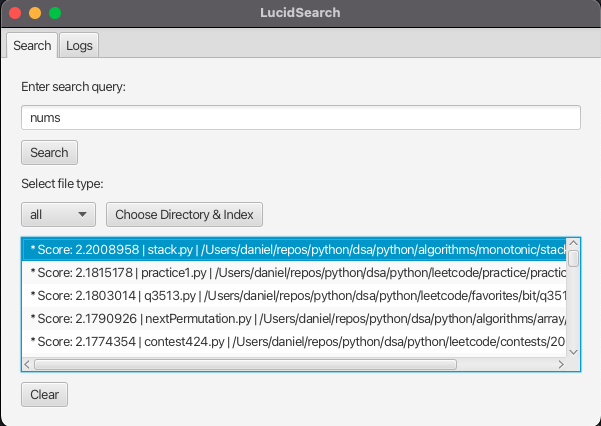
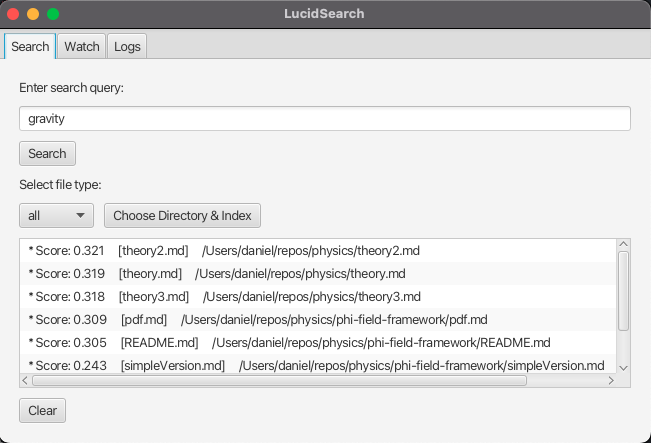
docs: update readme doc

diff --git a/src/main/java/com/lucene/ui/LucidApp.java b/src/main/java/com/lucene/ui/LucidApp.java
@@ -42,7 +42,7 @@ public class LucidApp extends Application {
         logsTab.setClosable(false);
         Tab watchTab = new Tab("Watch", watchView);
         watchTab.setClosable(false);
-        tabPane.getTabs().addAll(searchTab, logsTab, watchTab);
+        tabPane.getTabs().addAll(searchTab, watchTab, logsTab);
 
         primaryStage.setScene(new Scene(tabPane, 600, 400));
         primaryStage.show();

diff --git a/README.md b/README.md
@@ -5,14 +5,19 @@
 Personal file search engine powered by Lucene.
 
 ## Overview
-A lightweight search engine built with Java and Apache Lucene that indexes personal files for fast retrieval by relevancy.
+
+Lucid Search Engine is a lightweight, Java-based application that helps you index and search your personal files with lightning-fast relevance ranking, powered by Apache Lucene. 
+
+It also includes a real-time file change watcher so that you can monitor any system modifications in real-time.
+
 
 ## Features
 - File indexing and search capabilities
-- JavaFX-based user interface
-- Log viewer for monitoring search activities
-- File type filtering (e.g., `.txt`, `.doc`, etc.)
+- File change watcher for real-time monitoring on system file changes (good for virus detection)
 - Relevancy-based search results
+- File type filtering (e.g., `.txt`, `.doc`, etc.)
+- JavaFX-based user interface
+- Log viewer for monitoring software activity
 
 ## GUI Preview
 ![Lucid Search Engine GUI](assets/gui.png)
